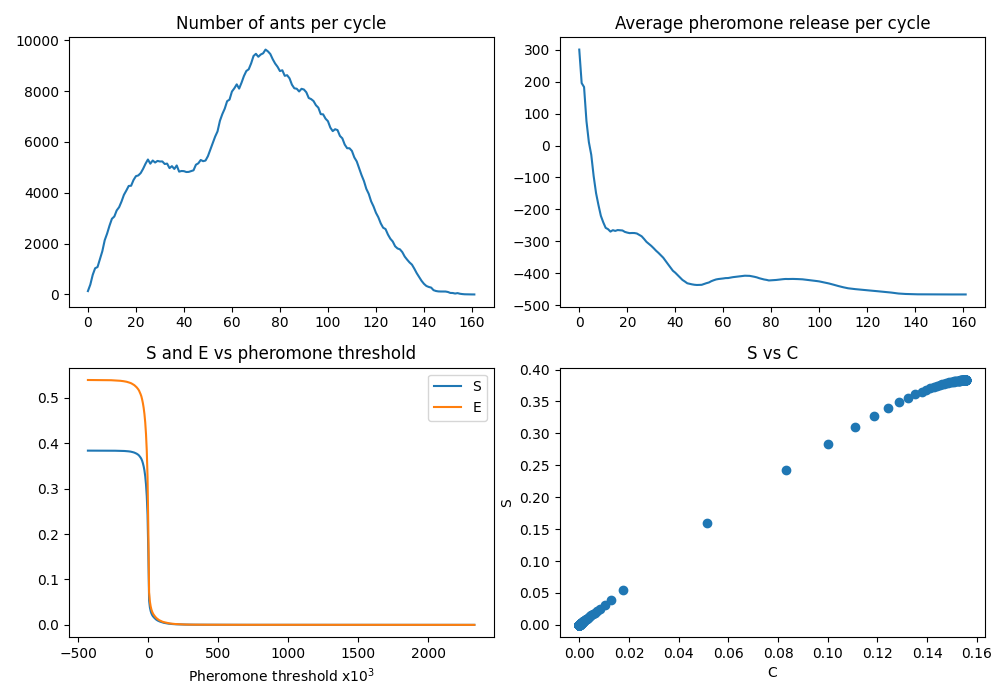
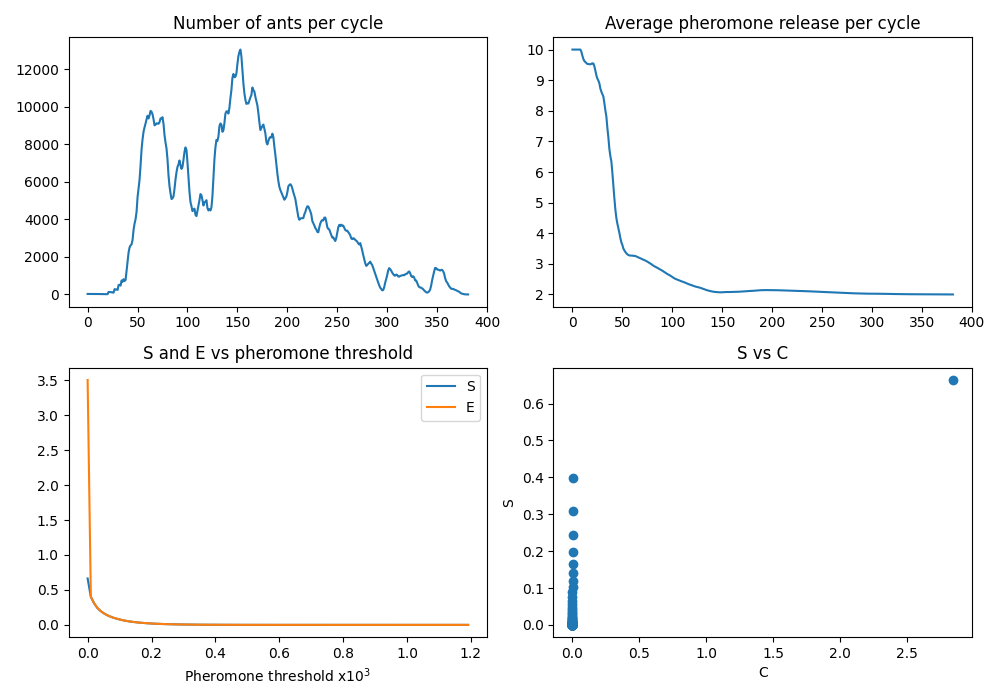
updated assets

diff --git a/src/ant_constructor.py b/src/ant_constructor.py
@@ -20,6 +20,9 @@
 
 import numpy as np
 
+BETA = 3.5
+DELTA = 0.2
+
 def sigmoid(x, mean):
     """Sigmoid function used in the pheromone_release method.
     
@@ -27,6 +30,7 @@ def sigmoid(x, mean):
     -----
     x : float or ndarray
         The voxel value of the image.
+
     mean : float
         The value which discriminates foreground
         and background.
@@ -37,7 +41,7 @@ def sigmoid(x, mean):
     voxel value, centered at the mean value.
     """
 
-    return 1 / (1 + np.exp(-x + mean))
+    return 1 / (1 + np.exp(-x - abs(mean)))
 
 
 class Ant:
@@ -56,6 +60,12 @@ class Ant:
     energy : float
         The ant energy.
 
+    alpha, eta : float
+        The alpha, eta parameters defined in the documentation.
+
+    thresh_value : float or None, defaults to None
+        The threshold value used in the pheromone deposition rule.
+
     Methods
     -------
     update_energy : updates the ant energy.
@@ -71,27 +81,13 @@ class Ant:
     """
 
 
-    def __init__(self, image_matrix, voxel_coordinates, thresh_mean):
+    def __init__(self, image_matrix, voxel_coordinates, thresh_value=None):
         self.image_matrix = image_matrix
         self.voxel_coordinates = voxel_coordinates
-        self._beta = 3.5
-        self._delta = 0.2
         self._alpha = 0.2
         self._eta = 0.01
         self.energy = 1.0 + self._alpha
-        self.thresh_mean = thresh_mean
-
-
-    @property
-    def beta(self):
-        """Defines the beta attribute as read-only."""
-        return self._beta
-
-
-    @property
-    def delta(self):
-        """Defines the delta attribute as read-only."""
-        return self._delta
+        self.thresh_value = thresh_value
 
 
     @property
@@ -107,7 +103,16 @@ class Ant:
 
 
     def update_energy(self, value):
-        """Updates the ant energy."""
+        """Updates the ant energy.
+        
+        Args
+        ----
+        value : float
+            The updating value depending on the
+            released pheromone and on the pheromone mean
+            released by the colony since the start.
+        """
+
         self.energy = self.energy - self._alpha * (1.0 - value)
 
 
@@ -120,7 +125,8 @@ class Ant:
         Returns
         -------
         neighbours : ndarray
-            Array of the indexes of the first-order neighbours of the ant current voxel.
+            Array of the indexes of the first-order neighbours of the
+            ant current voxel.
         """
 
         # Create the matrix whose rows contain the indexes of the
@@ -160,13 +166,15 @@ class Ant:
 
 
     def find_second_neighbours(self):
-        """Finds the indexes of the second-order neighbours of the ant current
-        voxel. The construction is similar to that one of the find_first_neighbours function.
+        """Finds the indexes of the second-order neighbours of the
+        ant current voxel. The construction is similar to that one
+        of the find_first_neighbours function.
 
         Returns
         -------
         neighbours : ndarray
-            Array of the indexes of the second-order neighbours of the current voxel.
+            Array of the indexes of the second-order neighbours of
+            the current voxel.
         """
 
         neighbours = np.transpose(np.indices((5, 5, 5)) - 2).reshape(-1, 3)
@@ -228,26 +236,48 @@ class Ant:
 
         propor_factor = 10
 
-        if isinstance(voxel_coordinates, list):
-            pheromone_value = (
-                propor_factor
-                * sigmoid(self.image_matrix[
-                    voxel_coordinates[0],
-                    voxel_coordinates[1],
-                    voxel_coordinates[2],
-                ], self.thresh_mean)
-                + self._eta
-            )
-        elif isinstance(voxel_coordinates, np.ndarray):
-            pheromone_value = (
-                propor_factor
-                * sigmoid(self.image_matrix[
-                    voxel_coordinates[:, 0],
-                    voxel_coordinates[:, 1],
-                    voxel_coordinates[:, 2],
-                ], self.thresh_mean)
-                + self._eta
-            )
+        if self.thresh_value is None:
+            if isinstance(voxel_coordinates, list):
+                pheromone_value = (
+                    propor_factor
+                    * (self.image_matrix[
+                        voxel_coordinates[0],
+                        voxel_coordinates[1],
+                        voxel_coordinates[2],
+                    ])
+                    + self._eta
+                )
+            elif isinstance(voxel_coordinates, np.ndarray):
+                pheromone_value = (
+                    propor_factor
+                    * (self.image_matrix[
+                        voxel_coordinates[:, 0],
+                        voxel_coordinates[:, 1],
+                        voxel_coordinates[:, 2],
+                    ])
+                    + self._eta
+                )
+        else:
+            if isinstance(voxel_coordinates, list):
+                pheromone_value = (
+                    propor_factor
+                    * sigmoid(self.image_matrix[
+                        voxel_coordinates[0],
+                        voxel_coordinates[1],
+                        voxel_coordinates[2],
+                    ], self.thresh_value)
+                    + self._eta
+                )
+            elif isinstance(voxel_coordinates, np.ndarray):
+                pheromone_value = (
+                    propor_factor
+                    * sigmoid(self.image_matrix[
+                        voxel_coordinates[:, 0],
+                        voxel_coordinates[:, 1],
+                        voxel_coordinates[:, 2],
+                    ], self.thresh_value)
+                    + self._eta
+                )
         return pheromone_value
 
 
@@ -331,7 +361,7 @@ class Ant:
             ]
             / (
                 1.0
-                + self.delta
+                + DELTA
                 * pheromone_map[
                     valid_first_neighbours[:, 0],
                     valid_first_neighbours[:, 1],
@@ -339,7 +369,7 @@ class Ant:
                     0,
                 ]
             )
-        ) ** (self.beta)
+        ) ** (BETA)
         probability = W_PROBABILITY / W_PROBABILITY.sum()
         rand_num = np.random.uniform(0, np.max(probability))
         next_voxel_index = np.where(probability >= rand_num)[0][0]

diff --git a/src/CAM_functions.py b/src/CAM_functions.py
@@ -53,6 +53,9 @@ def set_colony(anthill_coordinates, image_matrix, thresh):
     image_matrix : ndarray
         The matrix of the image to be segmented.
 
+    thresh : float
+        The threshold value used in the pheromone deposition rule.
+
     Returns
     -------
     colony : list[obj]
@@ -131,7 +134,7 @@ def find_next_voxel(ant_worker):
 
 
 def plot_display(
-    a_ratio,
+    aspect_ratio,
     image_matrix,
     pheromone_matrix,
     anthill_coordinates,
@@ -160,7 +163,7 @@ def plot_display(
     norm = "symlog"
     cmap = "gray"
 
-    ax[0][0].set_aspect(a_ratio)
+    ax[0][0].set_aspect(aspect_ratio)
     plot_1 = ax[0][0].imshow(image_matrix[..., anthill_coordinates[2]], cmap="gray")
     ax[0][0].set_title("Original image, axial view")
     plot_2 = ax[0][1].imshow(
@@ -335,7 +338,7 @@ def cam_ground_truth(args_parser, image_matrix):
     image_voxels : ndarray
         The voxels which are part of the image foreground.
 
-    thresh : float
+    thresh : float or None
         The threshold value which discriminates foreground and background.
     """
 
@@ -343,7 +346,7 @@ def cam_ground_truth(args_parser, image_matrix):
         image_voxels, thresh = ground_truth(image_matrix)
     else:
         image_voxels = np.transpose(np.array(np.nonzero(image_matrix))).reshape(-1, 3)
-        thresh = 0
+        thresh = None
     return image_voxels, thresh
 
 
@@ -382,7 +385,7 @@ def statistics(ants_number, mean_list, image_matrix, pheromone_matrix, image_vox
         image_voxels, visited_voxels_dict, common_dict, pheromone_threshold
     )
 
-    index = np.where(pheromone_threshold >= 10.01)[0][0]
+    index = np.where(sensitivity >= np.max(sensitivity))[0][-1]
 
     print(pheromone_threshold.shape)
     print(sensitivity[:10])
@@ -427,7 +430,7 @@ def set_image_and_pheromone(args_parser):
     image_matrix : ndarray
         The image_matrix.
 
-    a_ratio : float
+    aspect_ratio : float
         Value that preserves the aspect ratio of the axial slices.
 
     pheromone_map_init : ndarray
@@ -440,11 +443,11 @@ def set_image_and_pheromone(args_parser):
         The pheromone map which will be deployed in the algorithm.
     """
 
-    a_ratio = 1
+    aspect_ratio = 1
 
     if args_parser.cmd == "dicom":
         extrema = [138, 475, 234, 600, 257, 277]
-        image_cropped, a_ratio = ImageData.image_from_file(
+        image_cropped, aspect_ratio = ImageData.image_from_file(
             args_parser.file_path, extrema
         )
         image_matrix = image_segmenter(image_cropped)
@@ -480,7 +483,7 @@ def set_image_and_pheromone(args_parser):
     )
     return (
         image_matrix,
-        a_ratio,
+        aspect_ratio,
         pheromone_map_init_,
         pheromone_shared_,
         pheromone_matrix,

diff --git a/src/main.py b/src/main.py
@@ -159,19 +159,19 @@ if __name__ == "__main__":
     image, aspect_ratio, pheromone_map_init, pheromone_shared, pheromone_map = (
         cam.set_image_and_pheromone(args)
     )
-    image_voxels, thresh_mean = cam.cam_ground_truth(args, image)
+    image_voxels, thresh_value = cam.cam_ground_truth(args, image)
     # copies pheromone_map_init into pheromone_map
     np.copyto(pheromone_map, pheromone_map_init)
 
     n_iteration = 0
-    energy_death = 1.0
-    energy_reproduction = 1.3
+    ENERGY_DEATH = 1.
+    ENERGY_REPRODUCTION = 1.3
     ant_number = []
     pheromone_mean_sum = 0
     pheromone_mean_list = []
     colony_length = 0
 
-    ant_colony, anthill_position = cam.set_colony(args.anthill_coordinates, image, thresh_mean)
+    ant_colony, anthill_position = cam.set_colony(args.anthill_coordinates, image, thresh_value)
     start_time_local = time.perf_counter()
 
     while len(ant_colony) != 0 and n_iteration <= args.n_iteration:
@@ -204,12 +204,12 @@ if __name__ == "__main__":
             ant.update_energy(released_pheromone[i] / pheromone_mean)
 
         for i, ant in enumerate(ant_colony):
-            if ant.energy < energy_death:
+            if ant.energy < ENERGY_DEATH:
                 del ant_colony[i]
                 if len(ant_colony) == 0:
                     print("No ants left.\n")
                 continue
-            if ant.energy > energy_reproduction:
+            if ant.energy > ENERGY_REPRODUCTION:
                 ant.energy = 1.0 + ant.alpha
                 first_neighbours = ant.find_first_neighbours()
                 valid_index = np.where(
@@ -249,7 +249,7 @@ if __name__ == "__main__":
                     n_offspring = valid_neighbours.shape[0]
 
                 for neigh in valid_neighbours[:n_offspring]:
-                    ant_colony.append(cam.Ant(image, list(neigh), thresh_mean))
+                    ant_colony.append(cam.Ant(image, list(neigh), thresh_value))
                 pheromone_map[
                     valid_neighbours[:, 0],
                     valid_neighbours[:, 1],
@@ -263,8 +263,8 @@ if __name__ == "__main__":
 
     logging.info(f"Image dimensions: {image.shape}\n")
     logging.info(f"Anthill coordinates: {args.anthill_coordinates}\n")
-    logging.info(f"Energy death: {energy_death}\n")
-    logging.info(f"Energy reproduction: {energy_reproduction}\n")
+    logging.info(f"Energy death: {ENERGY_DEATH}\n")
+    logging.info(f"Energy reproduction: {ENERGY_REPRODUCTION}\n")
     logging.info(f"# iterations: {n_iteration}\n")
     logging.info(
         f"Elapsed time: {(time.perf_counter() - start_time_local) / 60:.3f} min\n"

diff --git a/tests/test_ant.py b/tests/test_ant.py
@@ -34,7 +34,7 @@ class AntTesting(unittest.TestCase):
 
     def test_energy_update(self):
         """Checks the update of the ant energy."""
-        ant = Ant([], [], 0)
+        ant = Ant([], [])
         ant_energy = ant.energy
         update_value = 10.0
         ant.update_energy(update_value)
@@ -55,7 +55,7 @@ class AntTesting(unittest.TestCase):
             ]
         )
         for i in range(len(voxel_coordinates[:, 0])):
-            ant = Ant(matrix, voxel_coordinates[i], 0)
+            ant = Ant(matrix, voxel_coordinates[i])
             neighbour_number = [7, 7, 11, 26]
             self.assertEqual(neighbour_number[i], ant.find_first_neighbours().shape[0])
 
@@ -72,7 +72,7 @@ class AntTesting(unittest.TestCase):
             ]
         )
         for i in range(len(voxel_coordinates[:, 0])):
-            ant = Ant(matrix, voxel_coordinates[i], 0)
+            ant = Ant(matrix, voxel_coordinates[i])
             neighbour_number = [26, 26, 35, 124]
             self.assertEqual(neighbour_number[i], ant.find_second_neighbours().shape[0])
 
@@ -91,7 +91,7 @@ class AntTesting(unittest.TestCase):
         image_matrix[2:4, 2:4, 2:4] = 5.0
         pheromone_map = self.build_pheromone_map(image_matrix)
         current_voxel = [2, 2, 2]
-        ant = Ant(image_matrix, current_voxel, 0)
+        ant = Ant(image_matrix, current_voxel)
         first_neighbours = ant.find_first_neighbours()
         # All the neighbouring voxels are occupied i.e the 4-th dimension
         # of the pheromone map has value True for all

diff --git a/src/environment_constructor.py b/src/environment_constructor.py
@@ -77,7 +77,7 @@ class ImageData:
             center[0] - length // 2 : center[0] + length // 2,
             center[1] - length // 2 : center[1] + length // 2,
             center[2] - length // 2 : center[2] + length // 2,
-        ] = 5.0
+        ] = 5
         return image_matrix
 
 
